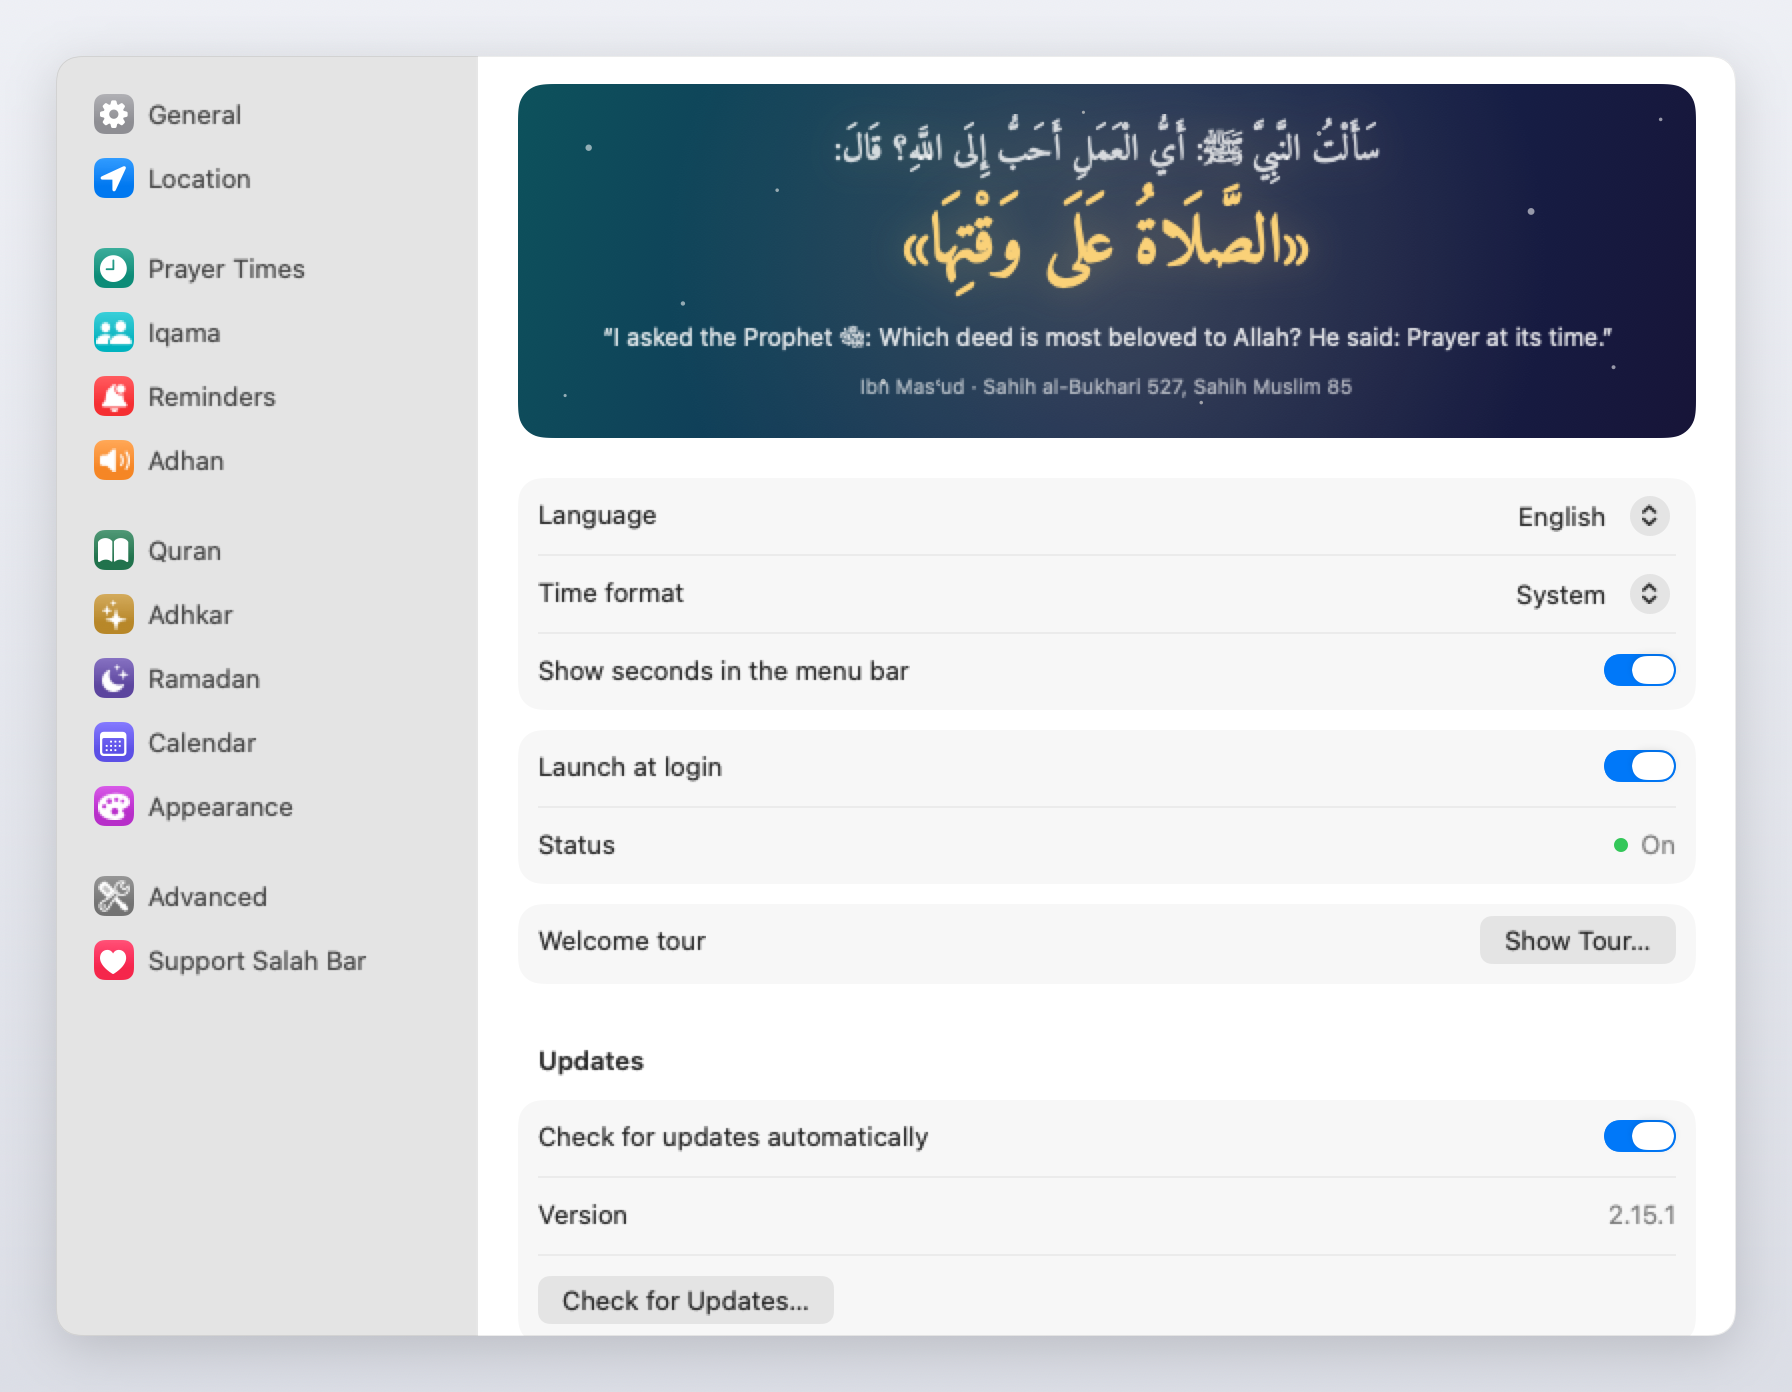
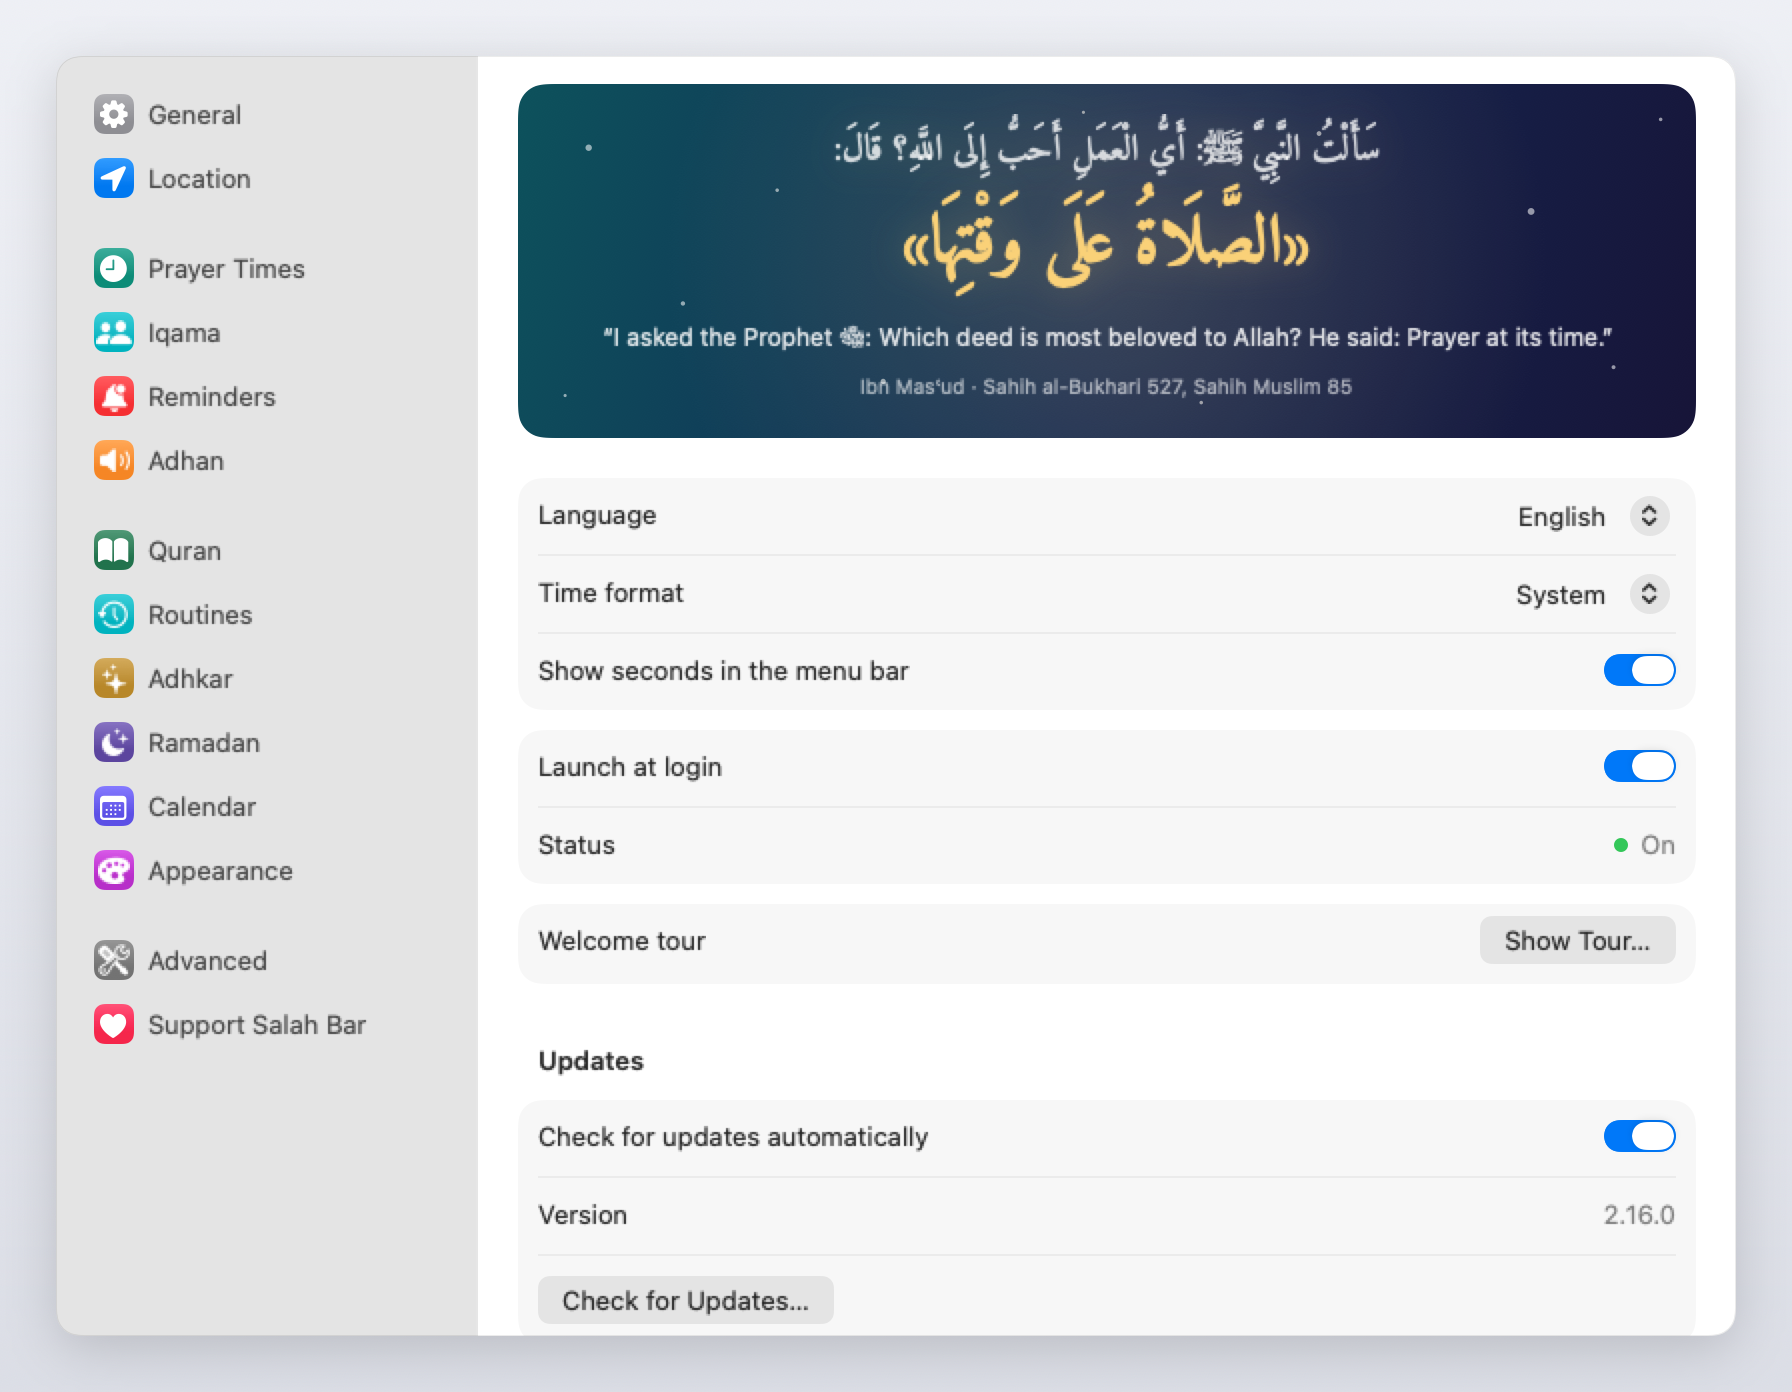
Release 2.17.0

Changed region(s): [[0.0312, 0.4325, 0.2188, 0.7723], [0.9062, 0.8649, 0.9375, 0.8958]]

diff --git a/README.md b/README.md
@@ -28,6 +28,7 @@ and lets you listen to the Quran from 242 reciters.
 - 🖥 **Desktop widgets** in Small, Medium and Large
 - 📖 **A rotating ayah or dua**: 42 ayahs, Quranic duas and hadiths, changing every 15 minutes to once a day
 - ✨ **Dhikr cards**: now and then a quiet card with a dhikr or dua from the Quran and Sunnah, at the hours you choose, never during meetings ([more](#dhikr-cards))
+- 🕰 **Routines and a daily wird**: read the whole Quran a few pages a day from where you stopped, and have the Quran, a surah or the morning adhkar ready after Fajr, at a set time or when a Focus turns on ([more](#routines-and-the-daily-wird))
 - 🤲 **Duas you can listen to**: all of Hisn al-Muslim (Fortress of the Muslim), 267 duas in 132 chapters by topic, each with its Arabic, its meaning and a recording; play a chapter, count repetitions, keep it offline ([more](#duas))
 - 🌙 **A Ramadan companion**: your fasts and fasts to make up, a Quran khatm plan you can listen to, the iftar and Laylat al-Qadr duas, suhoor and Taraweeh reminders, an iftar countdown in the menu bar, then the six days of Shawwal ([more](#ramadan))
 - 🕋 **Hijri date** and **Qibla** direction
@@ -843,6 +844,31 @@ Recitations are from [mp3quran.net](https://mp3quran.net).
 | Arabic, dark | Settings → Quran |
 |---|---|
 | ![The Quran window in Arabic](assets/screenshots/quran-ar-dark.png) | ![Quran settings](assets/screenshots/settings-quran-en.png) |
+
+### Routines and the daily wird
+
+**Settings → Routines** keeps you reading every day.
+
+- **The daily wird**: a plan through the whole Quran, 1 to 40 pages a day (20 is a
+  juz, a khatm a month), from wherever you start. The panel shows today's pages, for
+  example *Pages 241–244 · Yusuf 44 → Yusuf 78*, with ▶ to listen from the first ayah
+  and a check once read; tomorrow carries on from there. Settings shows how many
+  days are left and your streak.
+- **Routines**: what to play and when. Play the daily wird, carry on the Quran where
+  you stopped, a surah (Al-Mulk after Isha, say), a dua chapter such as the morning
+  and evening adhkar, or a Hifz review. Start it at a time, before or after a prayer
+  (it moves with the prayer times), on the days you choose.
+- At its time a routine **asks first** with a notification (**Play** or **Later**),
+  or starts by itself with the sound fading in. It waits while you're in a call or a
+  meeting and during the adhan, never cuts into something playing, and runs once a
+  day.
+- **Focus and Shortcuts**: add Salah Bar to a Focus (System Settings → Focus → Add
+  Filter) to start a routine when that Focus turns on, or use **Run Routine** in
+  Shortcuts, for example in an automation when your AirPods connect.
+
+| Settings → Routines | The panel |
+|---|---|
+| ![Settings, Routines](assets/screenshots/settings-routines-en.png) | ![Today's wird](assets/screenshots/wird-card-en.png) |
 
 ### Duas
 

diff --git a/THIRD_PARTY_NOTICES.md b/THIRD_PARTY_NOTICES.md
@@ -32,6 +32,11 @@ the Hifz view ("Text: Tanzil.net"), and Tanzil's copyright notice is kept in
 the bundled file. Ayah timings for Hifz mode come from mp3quran.net's API,
 and ayah-by-ayah audio from EveryAyah.com (see below).
 
+Where each page of the Madani mushaf begins, for the daily wird
+(`QuranPagesGenerated.swift`, made by `scripts/gen-quran-pages.py`), is from
+Tanzil's **Quran Metadata** (version 1.0), Copyright (C) 2008–2009 Tanzil.info,
+licensed under Creative Commons Attribution 3.0.
+
 ## The Amiri font
 
 The hadith on the welcome tour and in Settings is set in
